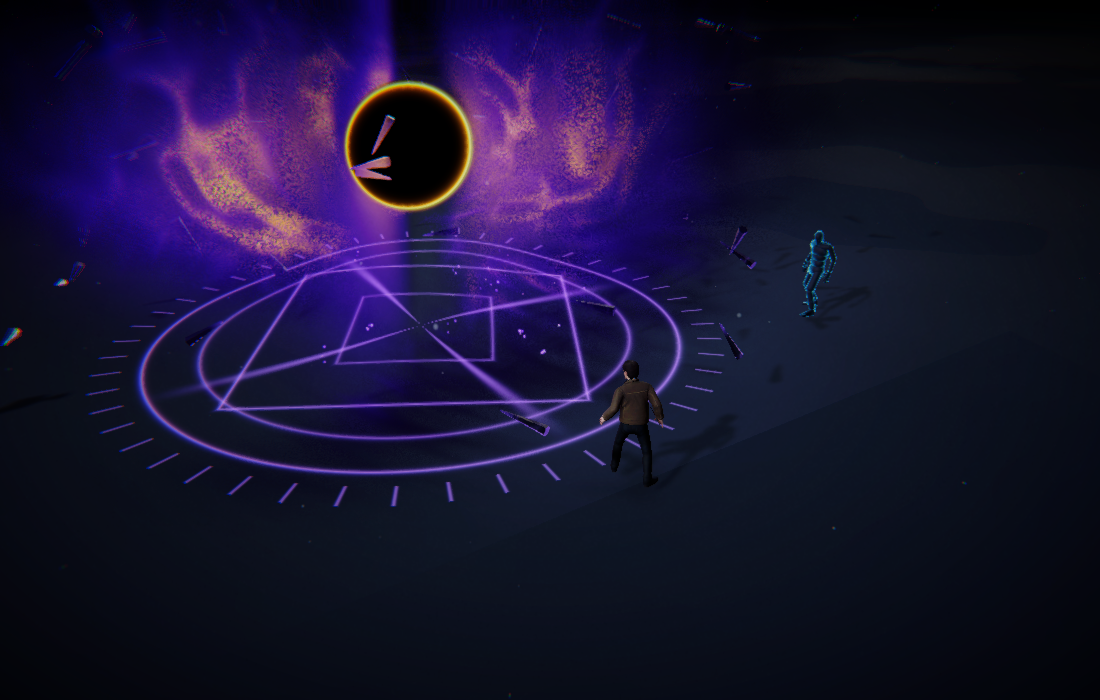
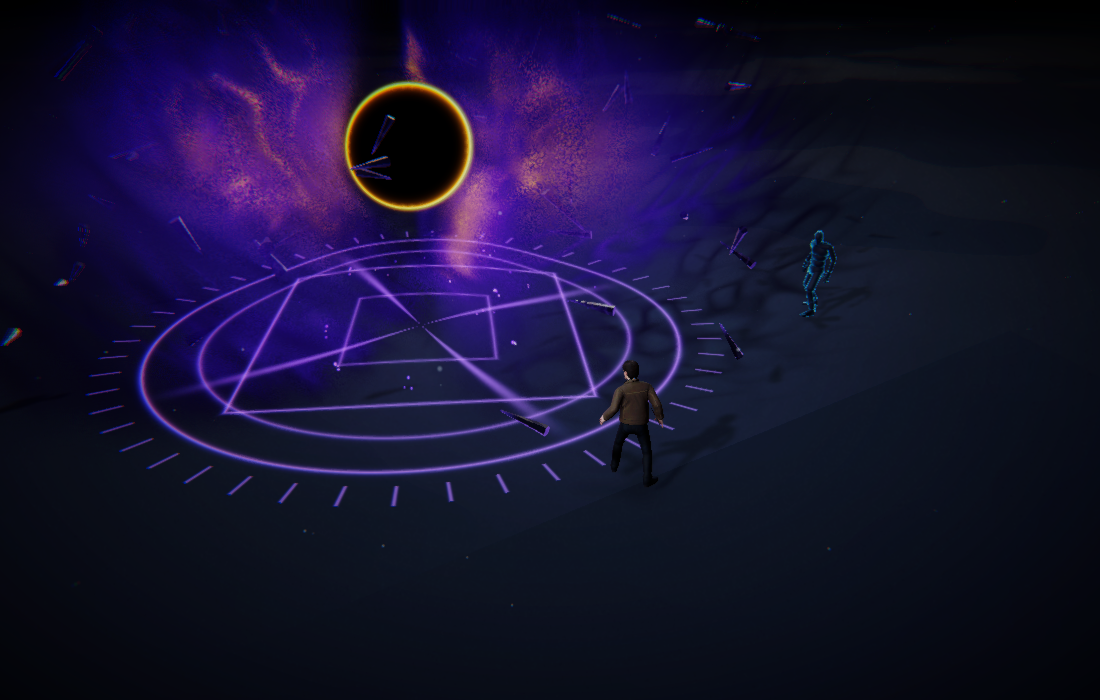
feat: Venom Surge and Monolith Rift erupt as a guard ring round the caster
A deliberate departure from the source, where both are line casts. Selecting
V or X and clicking anywhere now raises the eruption in a ring of guardRadius
metres round the caster (venom 3.6, rift 4.5 — two new Defaults entries): the
front sweeps the circumference from where the body faces, the burst
population stands on the ring — heroes along its inner edge, the skirt
spilling past — with the crater at the centre, and anything inside the ring is
struck and pushed outward as the front passes its bearing. No arrow, no turn
toward the pointer.

SpellVisual.PathPoint gives stones, dust and floor decals one path for both
shapes; the ring's Focus and FrontTangent drive the light and the front dust.

diff --git a/Assets/ElementalSandbox/Scripts/ElementalApp.cs b/Assets/ElementalSandbox/Scripts/ElementalApp.cs
@@ -102,8 +102,10 @@ namespace ElementalSandbox
         {
             if(Paused)return false;if(!bypassCooldown&&Cooldown(slot)>0){Status="Ability cooling down.";return false;}
             var meta=Settings.Abilities[slot];float range=Settings.F(meta.id+".range",20),minimum=Settings.F(meta.id+".minRange",0);point.y=0;Vector3 offset=point-actor.position;float dist=Mathf.Clamp(offset.magnitude,minimum,range);Vector3 dir=offset.sqrMagnitude>.001f?offset.normalized:Vector3.forward;point=actor.position+dir*dist;
+            // Guard casts ignore the pointer: they erupt round the caster, facing wherever the body faces.
+            if(IsRing(meta.id)){Vector3 f=actor.forward;f.y=0;dir=f.sqrMagnitude>.001f?f.normalized:Vector3.forward;point=actor.position+dir;}
             if(ActiveCount>=4){SpellVisual oldest=null;foreach(var e in effects)if(e.Active&&(oldest==null||e.Age>oldest.Age))oldest=e;oldest?.Retire();}
-            SpellVisual spell=null;foreach(var e in effects)if(!e.Active&&e.Slot==slot){spell=e;break;}if(spell==null){spell=new SpellVisual(this,slot);effects.Add(spell);}spell.Spawn(actor.position,point);cooldowns[slot]=SimulationTime+Settings.F(meta.id+".cooldown",2);actor.rotation=Quaternion.LookRotation(dir);castName=Settings.S(meta.id+".castAnim","cast2");if(animation[castName]!=null){animation[castName].time=0;animation.CrossFade(castName,Settings.F("character.castBlendIn",.12f));animationRemaining=animation[castName].length;}
+            SpellVisual spell=null;foreach(var e in effects)if(!e.Active&&e.Slot==slot){spell=e;break;}if(spell==null){spell=new SpellVisual(this,slot);effects.Add(spell);}spell.Spawn(actor.position,point);cooldowns[slot]=SimulationTime+Settings.F(meta.id+".cooldown",2);if(!IsRing(meta.id))actor.rotation=Quaternion.LookRotation(dir);castName=Settings.S(meta.id+".castAnim","cast2");if(animation[castName]!=null){animation[castName].time=0;animation.CrossFade(castName,Settings.F("character.castBlendIn",.12f));animationRemaining=animation[castName].length;}
             focus=point+Vector3.up;focusWeight=1;Armed=false;Status=meta.hint;return true;
         }
         public void ForceCamera(){distance=Settings.F("camera.distance",11.5f);UpdateCamera(0);}
@@ -136,8 +138,8 @@ namespace ElementalSandbox
         }
         void UpdateAim()
         {
-            Ray ray=View.ScreenPointToRay(pointer);pointerValid=new Plane(Vector3.up,Vector3.zero).Raycast(ray,out float enter)&&enter>0&&enter<500;if(pointerValid){Vector3 p=ray.GetPoint(enter);var id=Settings.Abilities[Selected].id;Vector3 delta=p-actor.position;float range=Mathf.Clamp(delta.magnitude,Settings.F(id+".minRange",0),Settings.F(id+".range",20));AimPoint=actor.position+delta.normalized*range;if(Armed&&Settings.B("character.turnToAim",true)&&delta.sqrMagnitude>.01f)actor.rotation=Quaternion.Slerp(actor.rotation,Quaternion.LookRotation(delta.normalized),1-Mathf.Exp(-10*Time.unscaledDeltaTime));}
-            bool show=Armed&&pointerValid;var meta=Settings.Abilities[Selected];zone.gameObject.SetActive(show&&meta.zone);arrow.enabled=show&&!meta.zone;aimMaterial.SetColor("_BaseColor",meta.Color);arrow.sharedMaterial.SetColor("_BaseColor",meta.Color);zone.position=AimPoint+Vector3.up*.05f;zone.rotation=Quaternion.Euler(90,0,0);zone.localScale=Vector3.one*Settings.F(meta.id+".zoneRadius",4)*2;
+            Ray ray=View.ScreenPointToRay(pointer);pointerValid=new Plane(Vector3.up,Vector3.zero).Raycast(ray,out float enter)&&enter>0&&enter<500;if(pointerValid){Vector3 p=ray.GetPoint(enter);var id=Settings.Abilities[Selected].id;Vector3 delta=p-actor.position;float range=Mathf.Clamp(delta.magnitude,Settings.F(id+".minRange",0),Settings.F(id+".range",20));AimPoint=actor.position+delta.normalized*range;if(Armed&&!IsRing(id)&&Settings.B("character.turnToAim",true)&&delta.sqrMagnitude>.01f)actor.rotation=Quaternion.Slerp(actor.rotation,Quaternion.LookRotation(delta.normalized),1-Mathf.Exp(-10*Time.unscaledDeltaTime));}
+            bool show=Armed&&pointerValid;var meta=Settings.Abilities[Selected];bool ring=IsRing(meta.id);zone.gameObject.SetActive(show&&meta.zone&&!ring);arrow.enabled=show&&!meta.zone&&!ring;aimMaterial.SetColor("_BaseColor",meta.Color);arrow.sharedMaterial.SetColor("_BaseColor",meta.Color);zone.position=AimPoint+Vector3.up*.05f;zone.rotation=Quaternion.Euler(90,0,0);zone.localScale=Vector3.one*Settings.F(meta.id+".zoneRadius",4)*2;
             if(show&&!meta.zone){Vector3 a=actor.position+Vector3.up*.05f,b=AimPoint+Vector3.up*.05f,d=(b-a).normalized,s=Vector3.Cross(Vector3.up,d)*.45f;arrow.SetPositions(new[]{a+s,b-d*.7f+s,b-d*.7f+s*2,b,b-d*.7f-s*2,b-d*.7f-s,a-s,a+s});}
         }
         void UpdateCamera(float dt)
@@ -149,6 +151,7 @@ namespace ElementalSandbox
             View.backgroundColor=Settings.C("environment.backgroundColor");RenderSettings.fog=Settings.B("environment.fogEnabled",true);RenderSettings.fogMode=FogMode.Linear;RenderSettings.fogColor=Settings.C("environment.fogColor");RenderSettings.fogStartDistance=Settings.F("environment.fogNear",26);RenderSettings.fogEndDistance=Settings.F("environment.fogFar",135);
             sun.color=Settings.C("environment.sunColor");sun.intensity=Settings.F("environment.sunIntensity",2.6f);sun.transform.rotation=SourceLightRotation(Settings.F("environment.sunAzimuth",2.95f),Settings.F("environment.sunElevation",.6f));Shader.SetGlobalVector("_ElementalLightDir",-sun.transform.forward);rim.color=Settings.C("environment.rimColor");rim.intensity=Settings.F("environment.rimIntensity",1.1f);rim.transform.rotation=SourceLightRotation(Settings.F("environment.rimAzimuth",5.45f),Settings.F("environment.rimElevation",.35f));floorMaterial.SetColor("_BaseColor",Settings.C("environment.floorColor"));floorMaterial.SetColor("_Tint",Settings.C("environment.floorTint"));floorMaterial.SetFloat("_Pool",Settings.F("environment.floorPool",.8f));floorMaterial.SetFloat("_Textured",Settings.B("environment.floorTexture")?1:0);floorMaterial.SetFloat("_Sheen",Settings.F("environment.floorSheen",.34f));floorMaterial.SetFloat("_Roughness",Settings.F("environment.floorRoughness",.88f));floorMaterial.SetFloat("_NormalScale",Settings.F("environment.floorNormalScale",.85f));floorMaterial.SetFloat("_TexTint",Settings.F("environment.floorTexTint",.4f));floorMaterial.SetFloat("_TexScale",Settings.F("environment.floorTextureScale",12));
         }
+        public static bool IsRing(string id)=>id=="venom"||id=="quake";
         // Three.js Environment._computeLightDirection, with source Z reflected.
         static Quaternion SourceLightRotation(float azimuth,float elevation)=>Quaternion.LookRotation(new Vector3(-Mathf.Cos(azimuth)*Mathf.Cos(elevation),-Mathf.Sin(elevation),Mathf.Sin(azimuth)*Mathf.Cos(elevation)));
         public void SetQuality(bool economy){Settings.Set("performance.maxFps",economy?30:60);Settings.Set("performance.idleFps",economy?15:30);Settings.Set("performance.shadowResolution",economy?1024:2048);PlayerPrefs.SetFloat("Elemental.Quality",economy?0:1);ResolutionScale=1;QualitySettings.shadows=UnityEngine.ShadowQuality.All;QualitySettings.shadowResolution=economy?UnityEngine.ShadowResolution.Medium:UnityEngine.ShadowResolution.High;ApplyResolution();}

diff --git a/Assets/ElementalSandbox/Scripts/SpellVisual.cs b/Assets/ElementalSandbox/Scripts/SpellVisual.cs
@@ -37,7 +37,22 @@ namespace ElementalSandbox
         public Color C(string key,string fallback="#ffffff")=>S.C(Id+"."+key,fallback);
         public float G(string key)=>S.F("global."+key,1);
         public float Radius=>S.Abilities[Slot].zone?F("zoneRadius",4):F("burstRadius",F("blastRadius",3));
-        public Vector3 Focus=>Vector3.Lerp(Origin,Target,Mathf.Clamp01(Age/Mathf.Max(.01f,travel)));
+        // Venom Surge and Monolith Rift no longer run down a line the player
+        // aims: they erupt in a guard ring round the caster, the front sweeping
+        // the circle, and strike whatever stands inside it. Everything that
+        // walked the line — stones, dust, decals, the light — walks PathPoint
+        // instead, so the two shapes share one code path.
+        public bool Ring=>Id=="venom"||Id=="quake";
+        public float RingRadius=>Mathf.Max(1,F("guardRadius",4));
+        float ringPhase;
+        public Vector3 PathPoint(float along,float lateral,float width,out Vector3 tangent,out Vector3 outward)
+        {
+            if(!Ring){outward=Vector3.Cross(Direction,Vector3.up).normalized;tangent=Direction;return Origin+Direction*Distance*along+outward*lateral*width;}
+            float a=ringPhase+along*Mathf.PI*2;outward=new Vector3(Mathf.Cos(a),0,Mathf.Sin(a));tangent=new Vector3(-Mathf.Sin(a),0,Mathf.Cos(a));
+            return Origin+outward*(RingRadius+lateral*width);
+        }
+        public Vector3 Focus{get{if(!Ring)return Vector3.Lerp(Origin,Target,Mathf.Clamp01(Age/Mathf.Max(.01f,travel)));return PathPoint(Mathf.Clamp01(Age/Mathf.Max(.01f,travel)),0,0,out _,out _);}}
+        public Vector3 FrontTangent{get{PathPoint(Mathf.Clamp01(Age/Mathf.Max(.01f,travel)),0,0,out var t,out _);return t;}}
         public float Life=>Id=="cyber"?F("shatterTime",.75f)+F("fadeTime",.85f):F("lifetime",5)*S.F("global.lifetime",1);
         public float Fade=>F("fadeTime",F("sinkTime",1));
         public float Envelope {get {float a=Age-travel;return Mathf.Clamp01(a/.4f)*(1-Mathf.Clamp01((a-Life)/Mathf.Max(.01f,Fade)));}}
@@ -85,9 +100,8 @@ namespace ElementalSandbox
             var decals=app.Decals;if(decals==null)return;float ex=G("explosionIntensity");
             if(previousAge<=0&&Age>0){scarDistance=0;decals.Spawn(SourceDecals.Kind.DustRing,Origin,F("widthNear",.5f)*3f,F("scarLife",8)*.4f,C("colorDustCoat","#cfc6b3"),C("colorScarA","#231f1a"),.5f,.4f);}
             float front=Distance*Mathf.Clamp01(Age/Mathf.Max(.01f,travel)),step=1/Mathf.Max(.05f,F("scarRate",1.4f));
-            Vector3 side=Vector3.Cross(Direction,Vector3.up).normalized;
             while(front-scarDistance>=step){scarDistance+=step;float s=Mathf.Clamp01(scarDistance/Mathf.Max(.1f,Distance));float w=HalfWidth(s);
-                Vector3 p=Origin+Direction*(s*Distance)+side*UnityEngine.Random.Range(-.7f,.7f)*w;
+                Vector3 p=PathPoint(s,UnityEngine.Random.Range(-.7f,.7f),w,out _,out _);
                 decals.Spawn(SourceDecals.Kind.DustRing,p,w*F("scarSpread",1.6f)*UnityEngine.Random.Range(.6f,1.2f),F("scarLife",8),C("colorScarA","#231f1a"),C("colorScarB","#3e3931"),F("scarIntensity",.22f),F("scarWidth",.45f));}
             if(previousT<0&&t>=0){
                 decals.Spawn(SourceDecals.Kind.DustRing,Target,F("ringRadius",8)*ex*.8f,F("scarLife",8)*.8f,C("colorScarA","#231f1a"),C("colorDustCoat","#cfc6b3"),.32f,.55f);
@@ -183,7 +197,10 @@ namespace ElementalSandbox
         }
         public void Spawn(Vector3 origin,Vector3 target)
         {
-            Origin=origin;Target=target;Distance=Vector3.Distance(origin,target);Direction=(target-origin).normalized;if(Direction.sqrMagnitude<.01f)Direction=Vector3.forward;Age=previousAge=0;travel=Distance/Mathf.Max(.1f,F("speed",50)*S.F("global.speed",1));Active=true;impacted=false;shots=0;nextShot=1.7f;struck.Clear();Root.SetActive(true);particles.Clear();foreach(var l in strands)l.enabled=false;sourceEruption?.Spawn();sourceCascade?.Spawn();sourceGrowth?.Spawn();
+            Origin=origin;Target=target;Distance=Vector3.Distance(origin,target);Direction=(target-origin).normalized;if(Direction.sqrMagnitude<.01f)Direction=Vector3.forward;
+            // Ring: the burst sits on the caster and the front runs the circumference, starting where the caster faces.
+            if(Ring){Target=Origin;ringPhase=Mathf.Atan2(Direction.z,Direction.x);Distance=Mathf.PI*2*RingRadius;}
+            Age=previousAge=0;travel=Distance/Mathf.Max(.1f,F("speed",50)*S.F("global.speed",1));Active=true;impacted=false;shots=0;nextShot=1.7f;struck.Clear();Root.SetActive(true);particles.Clear();foreach(var l in strands)l.enabled=false;sourceEruption?.Spawn();sourceCascade?.Spawn();sourceGrowth?.Spawn();
         }
         public void Retire(){Active=false;Root.SetActive(false);particles.Stop(true,ParticleSystemStopBehavior.StopEmittingAndClear);}
         void Burst(Vector3 pos,int count,float speed=4)
@@ -216,7 +233,10 @@ namespace ElementalSandbox
             else if(Id=="rend")Rend(t,env);
             if(stone!=null){stone.SetFloat("_Opacity",Id=="cyber"?1-Mathf.Clamp01(t/Fade):Mathf.Max(env,Id=="venom"||Id=="quake"?Mathf.Clamp01(Age/.2f)*(1-Mathf.Clamp01((t-Life)/Fade)):0));for(int k=0;k<6;k++){int count=instances[k].Count;if(count==0)continue;instances[k].CopyTo(drawBuffer);Graphics.DrawMeshInstanced(MeshLibrary.Get((Id=="quake"||Id=="ward"?"monolith":Id=="cascade"||Id=="rend"?"shard":"crystal")+k),0,stone,drawBuffer,count,null,ShadowCastingMode.On,true);}}
             if(dt>0&&(t>=0||!S.Abilities[Slot].zone)&&t<Life&&Id!="growth"&&Id!="cascade"&&Id!="astral"&&Id!="ink"&&(Id!="rend"||t>=F("chargeTime",1.7f)))
-            foreach(var d in app.Dummies){if(!d.Alive||struck.Contains(d))continue;bool hit;if(S.Abilities[Slot].zone)hit=Vector3.Distance(d.Position,Target)<Radius;else{Vector3 end=Origin+Direction*Mathf.Min(Distance,Age*F("speed",23));hit=DistanceToSegment(d.Position,Origin,end)<S.F("dummies.hit.radius",1.5f);}if(hit){d.Hit(Direction*S.F("dummies.hit.impulse",6)+Vector3.up*S.F("dummies.hit.lift",3.4f));struck.Add(d);}}
+            foreach(var d in app.Dummies){if(!d.Alive||struck.Contains(d))continue;bool hit;Vector3 push=Direction;
+                if(Ring){Vector3 off=d.Position-Origin;off.y=0;float swept=Mathf.Clamp01(Age/Mathf.Max(.01f,travel)),bearing=Mathf.Repeat(Mathf.Atan2(off.z,off.x)-ringPhase,Mathf.PI*2)/(Mathf.PI*2);hit=off.magnitude<RingRadius+S.F("dummies.hit.radius",1.5f)&&bearing<=swept;push=off.sqrMagnitude>.01f?off.normalized:Vector3.forward;}
+                else if(S.Abilities[Slot].zone)hit=Vector3.Distance(d.Position,Target)<Radius;else{Vector3 end=Origin+Direction*Mathf.Min(Distance,Age*F("speed",23));hit=DistanceToSegment(d.Position,Origin,end)<S.F("dummies.hit.radius",1.5f);}
+                if(hit){d.Hit(push*S.F("dummies.hit.impulse",6)+Vector3.up*S.F("dummies.hit.lift",3.4f));struck.Add(d);}}
         }
         void Instance(int i,Vector3 p,Quaternion r,Vector3 scale){if(scale.y>.001f&&instances[i%6].Count<512)instances[i%6].Add(Matrix4x4.TRS(p,r,scale));}
         void Eruption(float t,float env)

diff --git a/Assets/ElementalSandbox/Scripts/SourceEruption.cs b/Assets/ElementalSandbox/Scripts/SourceEruption.cs
@@ -79,7 +79,7 @@ namespace ElementalSandbox
                 var r=records[i];float elapsed=age-travel*r.along-r.stagger*F("riseStagger")-(r.cluster?r.radial*F(rock?"blastStagger":"burstStagger"):0);if(elapsed<0)continue;
                 float lateral=Mathf.Sign(r.lateral)*Mathf.Pow(Mathf.Abs(r.lateral),F("clumping",1))+r.scatter*F("scatter");
                 Vector3 radial=new Vector3(Mathf.Cos(r.angle),0,Mathf.Sin(r.angle));
-                Vector3 p=r.cluster?spell.Target+radial*spell.Radius*r.radial:spell.Origin+spell.Direction*spell.Distance*r.along+side*lateral*Mathf.Lerp(F("widthNear"),F("width"),Mathf.Pow(r.along,F("widthCurve",1)));
+                Vector3 tang=spell.Direction,outw=side;Vector3 p=r.cluster?spell.Target+radial*(spell.Ring?spell.RingRadius*(.75f+.45f*r.radial):spell.Radius*r.radial):spell.PathPoint(r.along,lateral,Mathf.Lerp(F("widthNear"),F("width"),Mathf.Pow(r.along,F("widthCurve",1))),out tang,out outw);
                 float h=r.cluster?F(rock?"blastHeight":"burstHeight")*Mathf.LerpUnclamped(1,1-Mathf.Clamp01(F("crown")),Mathf.Pow(r.radial,rock?1.25f:1.3f)):Mathf.Lerp(F("heightNear"),F("height"),Mathf.Pow(r.along,F("heightCurve",1)))*(1+(F("peak",1)-1)*Smooth(1-F("peakWidth"),1,r.along))*Mathf.Lerp(1,1-Mathf.Clamp01(F("crown")),Mathf.Pow(Mathf.Clamp01(Mathf.Abs(lateral)),1.4f));
                 if(r.cluster&&r.tier==0)h*=F(rock?"monolithScale":"spearScale",1);else if(r.tier==2)h*=F(rock?"blockScale":"shardScale",1);
                 h=Mathf.Max(.02f,h*(1+r.height*F("heightJitter")*randomness));
@@ -87,7 +87,7 @@ namespace ElementalSandbox
                 if(r.cluster&&r.tier==0)radius*=F(rock?"monolithGirth":"spearSlim",1);else if(r.tier==2)radius*=r.cluster?(rock?1.55f:1.5f):(rock?1.5f:1.45f);
                 radius=Mathf.Max(.01f,radius*(1+r.radius*F("radiusJitter")*randomness));
                 float bearing=r.angle+(rock?r.bearing*F("blastLeanScatter"):0);
-                Vector3 lean=r.cluster?new Vector3(Mathf.Cos(bearing),0,Mathf.Sin(bearing)):(spell.Direction*(rock?-.55f:.7f)+side*lateral*(rock?1:.9f)).normalized;
+                Vector3 lean=r.cluster?new Vector3(Mathf.Cos(bearing),0,Mathf.Sin(bearing)):(tang*(rock?-.55f:.7f)+outw*lateral*(rock?1:.9f)).normalized;
                 float outward=r.radial*(r.tier==0?(rock?.5f:.55f):1);
                 float angle=r.cluster?F(rock?"blastLean":"burstLean")*Mathf.Pow(rock?Mathf.Clamp01(outward):outward,F(rock?"blastLeanCurve":"burstLeanCurve",1)):F("lean")*Mathf.Lerp(rock?.35f:.3f,1,r.along);
                 angle*=1+r.lean*F("leanJitter")*randomness;

diff --git a/Assets/ElementalSandbox/Scripts/SourceEruptionParticles.cs b/Assets/ElementalSandbox/Scripts/SourceEruptionParticles.cs
@@ -94,7 +94,7 @@ namespace ElementalSandbox
                 // line so the cloud is left behind it — which is what makes
                 // the front look fast.
                 carry+=dt*F("dustRate",260)*pc;int n=(int)carry;carry-=n;
-                Vector3 dir=(-spell.Direction*.5f+Vector3.up).normalized;
+                Vector3 dir=(-spell.FrontTangent*.5f+Vector3.up).normalized;
                 EmitSource(smoke,new Vector3(spell.Focus.x,.12f,spell.Focus.z),F("width",2.4f)*.5f,dir,F("dustSpeed",1.6f),.7f,.95f,.9f,.5f,F("dustLifetime",3.4f),.4f,.4f,n,sizeScale,speedScale,lifeScale);
             }
             if(t>=0&&!burst)

diff --git a/README.md b/README.md
@@ -40,7 +40,7 @@ Captures written by **Elemental Sandbox → Run visual smoke test**, rendered th
 | Cancel | Escape / right click | Choose another card |
 | Editor / pause / clear / reset targets | G / P / C / T | Onscreen buttons |
 
-The seven ground casts use a circle; Cyber Serpent, Venom Surge and Monolith Rift use a line arrow. At most four casts remain active. Per-ability pools reuse visual objects. Targets use the original FBX with articulated Unity physics and respawn after dissolving.
+The seven ground casts use a circle and Cyber Serpent a line arrow. **Venom Surge and Monolith Rift are guard casts**: no aim — click anywhere and the eruption rings the caster at `guardRadius` (venom 3.6 m, rift 4.5 m), the front sweeping the circle from where the body faces, the burst rising at the centre, and anything inside the ring struck as the front passes its bearing. This is a deliberate departure from the source, where both are line casts. At most four casts remain active. Per-ability pools reuse visual objects. Targets use the original FBX with articulated Unity physics and respawn after dissolving.
 
 ## Port contents and fidelity
 
